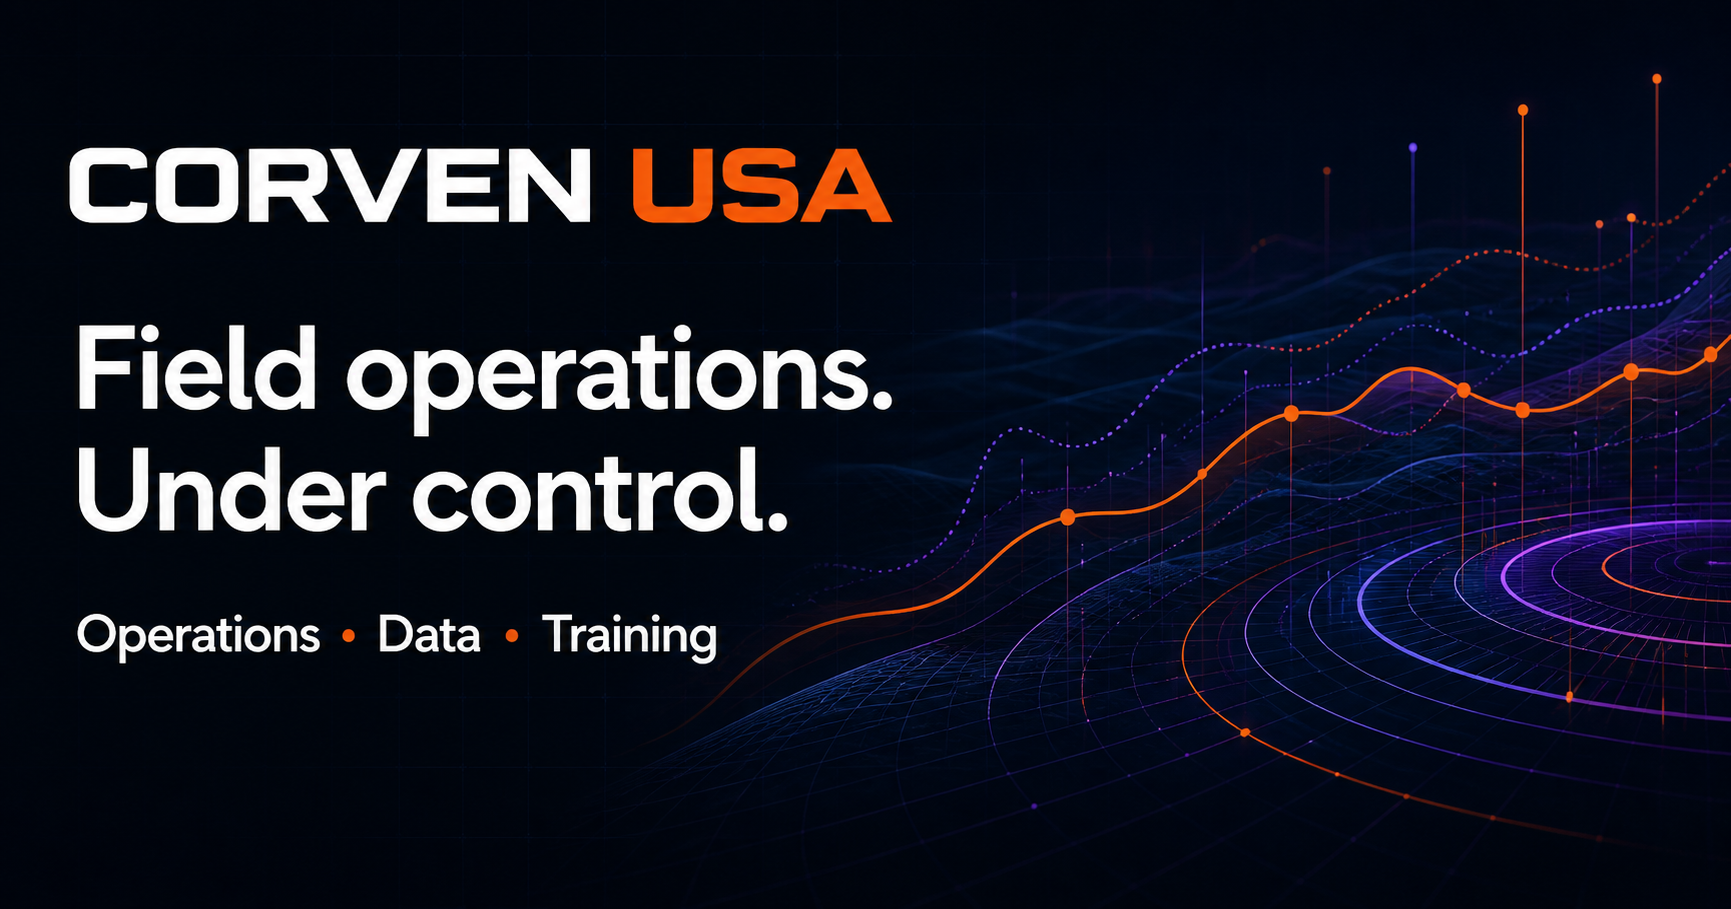
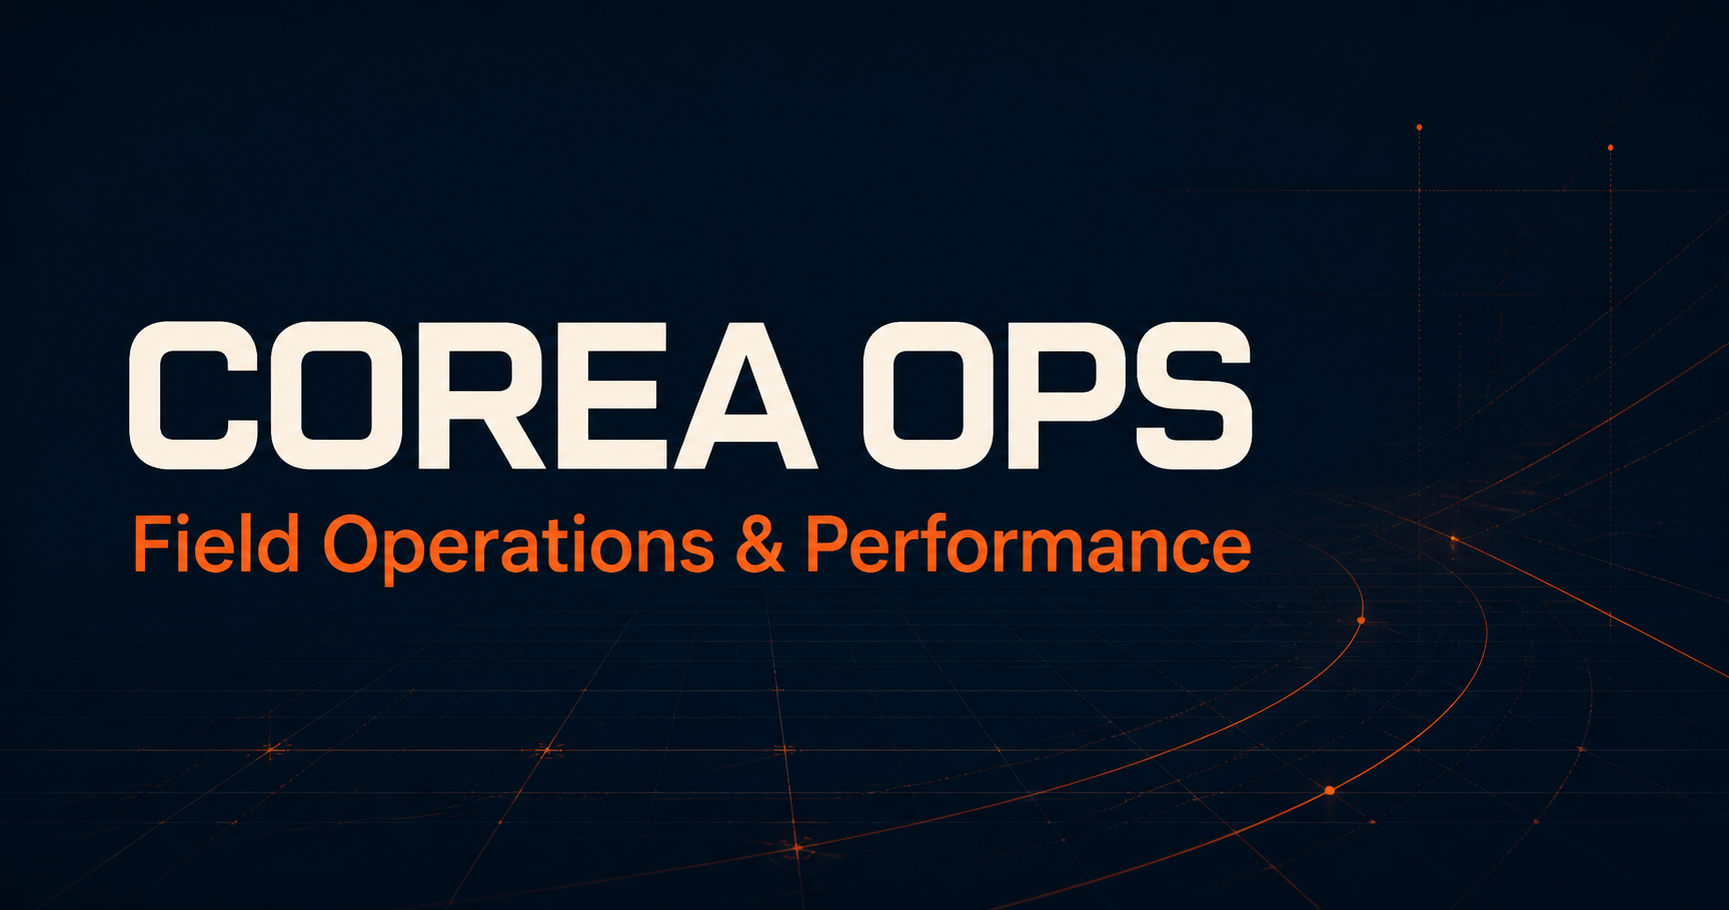
Rebrand site as Corea Ops Group

diff --git a/app/page.tsx b/app/page.tsx
@@ -12,32 +12,32 @@ const packages = [
   { name:'Ongoing Ops Support', price:'$3,200', note:'starting monthly', time:'Flexible', featured:false, items:['Weekly operating review','KPI and exception tracking','Process improvement support','Supervisor coaching'] },
 ];
 
-const schema = { '@context':'https://schema.org', '@type':'ProfessionalService', name:'CORVEN USA', description:'Operations management, data and instructional design for telecom, fiber and technical field service teams.', areaServed:['Indiana','United States'], telephone:'+1-502-649-4699', email:'coreamenamarcos@gmail.com', address:{'@type':'PostalAddress',addressRegion:'IN',addressCountry:'US'}, serviceType:['Field Operations Management','Data Reporting','Instructional Design'] };
+const schema = { '@context':'https://schema.org', '@type':'ProfessionalService', name:'Corea Operations Group LLC', alternateName:'COREA OPS', description:'Field operations and performance consulting for telecom, fiber and technical field service teams.', areaServed:['Indiana','United States'], telephone:'+1-502-649-4699', email:'coreamenamarcos@gmail.com', address:{'@type':'PostalAddress',addressRegion:'IN',addressCountry:'US'}, serviceType:['Field Operations Management','Performance Improvement','Data Reporting','Instructional Design'] };
 
 export default function Home() {
   return <main>
     <script type="application/ld+json" dangerouslySetInnerHTML={{__html:JSON.stringify(schema)}} />
-    <header className="site-header"><a className="brand" href="#top" aria-label="CORVEN USA home">CORVEN<span>USA</span><i /></a><nav aria-label="Primary navigation"><a href="#solutions">Solutions</a><a href="#packages">Packages</a><a href="#process">How it works</a><a href="#contact">Contact</a></nav><a className="header-cta" href="tel:+15026494699"><Phone size={16}/><span>(502) 649-4699</span></a></header>
+    <header className="site-header"><a className="brand" href="#top" aria-label="Corea Ops home">COREA<span>OPS</span><i /></a><nav aria-label="Primary navigation"><a href="#solutions">Solutions</a><a href="#packages">Packages</a><a href="#process">How it works</a><a href="#contact">Contact</a></nav><a className="header-cta" href="tel:+15026494699"><Phone size={16}/><span>(502) 649-4699</span></a></header>
 
     <section id="top" className="hero"><div className="hero-grid" aria-hidden="true"/><div className="hero-glow" aria-hidden="true"/>
-      <div className="hero-content"><p className="eyebrow"><MapPin size={15}/> Indiana-based · Serving U.S. field operations</p><h1>Turn field activity into <em>operational control.</em></h1><p className="hero-copy">CORVEN helps telecom, fiber and technical service teams organize field execution, see the right data and train people to deliver consistently.</p><div className="hero-actions"><a className="button button-primary" href="#contact">Book a 20-minute call <ArrowRight size={18}/></a><a className="button button-secondary" href="#solutions">Explore solutions</a></div><ul className="trust-line" aria-label="CORVEN approach"><li>Built for the field</li><li>Clear deliverables</li><li>Practical execution</li></ul></div>
+      <div className="hero-content"><p className="eyebrow"><MapPin size={15}/> Indiana-based · Serving U.S. field operations</p><h1>Turn field activity into <em>operational control.</em></h1><p className="hero-copy">Corea Ops helps telecom, fiber and technical service teams organize field execution, see the right data and train people to deliver consistently.</p><div className="hero-actions"><a className="button button-primary" href="#contact">Book a 20-minute call <ArrowRight size={18}/></a><a className="button button-secondary" href="#solutions">Explore solutions</a></div><ul className="trust-line" aria-label="Corea Ops approach"><li>Built for the field</li><li>Clear deliverables</li><li>Practical execution</li></ul></div>
       <aside className="ops-panel" aria-label="Field operations control preview"><div className="panel-top"><span>FIELD CONTROL</span><b>LIVE VIEW</b></div><div className="metric"><small>Today&apos;s focus</small><strong>Keep every site moving.</strong></div><div className="status-row"><span><i className="green"/> Site readiness</span><b>On track</b></div><div className="status-row"><span><i className="orange"/> Crew handoffs</span><b>2 actions</b></div><div className="status-row"><span><i className="blue"/> Closeout quality</span><b>Visible</b></div><div className="panel-note">One operating rhythm. Fewer blind spots.</div></aside>
     </section>
 
-    <section className="problem-band"><div><span>THE FIELD DOESN&apos;T WAIT</span><h2>Growth exposes every gap in the operation.</h2></div><p>Missing handoffs, scattered updates, unclear ownership and inconsistent training cost time long before they appear on a report. CORVEN connects the people, process and information behind the work.</p></section>
+    <section className="problem-band"><div><span>THE FIELD DOESN&apos;T WAIT</span><h2>Growth exposes every gap in the operation.</h2></div><p>Missing handoffs, scattered updates, unclear ownership and inconsistent training cost time long before they appear on a report. Corea Ops connects the people, process and information behind the work.</p></section>
 
     <section id="solutions" className="solutions-section section-pad"><div className="section-heading"><p className="kicker">Connected capabilities</p><h2>One operating system for better field execution.</h2><p>Start with the pressure point you feel today. We design each engagement to work with your current team and tools.</p></div><div className="solution-grid">{capabilities.map(({icon:Icon,label,copy,bullets},index)=><article key={label}><div className="solution-top"><span>0{index+1}</span><Icon/></div><h3>{label}</h3><p>{copy}</p><ul>{bullets.map(item=><li key={item}><Check size={14}/>{item}</li>)}</ul></article>)}</div></section>
 
-    <section className="field-focus"><div className="field-visual"><div className="signal signal-a"><RadioTower/><span>FIELD</span></div><div className="signal signal-b"><Users/><span>CREWS</span></div><div className="signal signal-c"><FileCheck2/><span>CLOSEOUT</span></div><div className="signal-center"><b>OIM</b><small>OPERATIONS<br/>INFORMATION<br/>MANAGEMENT</small></div></div><div className="field-copy"><p className="kicker light">Priority vertical</p><h2>Built around the realities of fiber, telecom and technical field services.</h2><p>We understand that the best process is the one supervisors and technicians can actually run between dispatch, site access, installation, quality checks and closeout.</p><div className="focus-list"><span><ShieldCheck/>Site readiness</span><span><Route/>Crew coordination</span><span><FileCheck2/>Closeout discipline</span><span><BarChart3/>Operational visibility</span></div></div></section>
+    <section className="field-focus"><div className="field-visual"><div className="signal signal-a"><RadioTower/><span>FIELD</span></div><div className="signal signal-b"><Users/><span>CREWS</span></div><div className="signal signal-c"><FileCheck2/><span>CLOSEOUT</span></div><div className="signal-center"><b>OPS</b><small>FIELD<br/>OPERATIONS<br/>PERFORMANCE</small></div></div><div className="field-copy"><p className="kicker light">Priority vertical</p><h2>Built around the realities of fiber, telecom and technical field services.</h2><p>We understand that the best process is the one supervisors and technicians can actually run between dispatch, site access, installation, quality checks and closeout.</p><div className="focus-list"><span><ShieldCheck/>Site readiness</span><span><Route/>Crew coordination</span><span><FileCheck2/>Closeout discipline</span><span><BarChart3/>Operational visibility</span></div></div></section>
 
     <section id="packages" className="packages section-pad"><div className="section-heading compact"><p className="kicker">Simple starting points</p><h2>Clear scope. Useful output. No vague consulting.</h2><p>Prices are starting points in U.S. dollars. Final scope and travel, if needed, are confirmed before work begins.</p></div><div className="package-grid">{packages.map(pkg=><article className={pkg.featured?'featured':''} key={pkg.name}>{pkg.featured&&<div className="popular">MOST PRACTICAL START</div>}<p className="package-time">{pkg.time}</p><h3>{pkg.name}</h3><div className="price"><small>{pkg.note}</small><strong>{pkg.price}</strong></div><ul>{pkg.items.map(item=><li key={item}><Check size={15}/>{item}</li>)}</ul><a href="#contact">Discuss this package <ChevronRight size={16}/></a></article>)}</div><div className="addons"><b>Also available as focused projects:</b><span>Data dashboard setup from $2,400</span><span>Training or SOP build from $2,900</span></div></section>
 
     <section id="process" className="process section-pad"><div className="section-heading compact"><p className="kicker">How we work</p><h2>From field reality to a system your team can run.</h2></div><ol><li><b>01</b><div><h3>Listen in context</h3><p>We learn the work, the constraints and what leadership needs to see.</p></div></li><li><b>02</b><div><h3>Make the gaps visible</h3><p>We map handoffs, ownership, information and recurring exceptions.</p></div></li><li><b>03</b><div><h3>Build the practical system</h3><p>We create the cadence, tools, scorecards and learning support.</p></div></li><li><b>04</b><div><h3>Enable the team</h3><p>We help supervisors and staff adopt, use and improve the new rhythm.</p></div></li></ol></section>
 
-    <section className="contact-person"><div><p className="kicker light">Your U.S. field contact</p><h2>Field experience at the first conversation.</h2><p>Marcos Corea supports CORVEN&apos;s commercial and operational development in the United States. His background spans technician work, field supervision and site logistics management—so the conversation starts with how work actually happens.</p><div className="role-tags"><span>Technician</span><span>Field supervisor</span><span>Site logistics</span></div></div><aside><span>CONTACT</span><h3>Marcos Corea</h3><p>U.S. Field Operations Contact</p><a href="tel:+15026494699"><Phone/>+1 (502) 649-4699</a><a href="mailto:coreamenamarcos@gmail.com?subject=CORVEN%20USA%20-%20Field%20Operations%20Conversation"><Mail/>coreamenamarcos@gmail.com</a></aside></section>
+    <section className="contact-person"><div><p className="kicker light">Your U.S. field contact</p><h2>Field experience at the first conversation.</h2><p>Marcos Corea leads Corea Ops Group&apos;s commercial and operational development in the United States. His background spans technician work, field supervision and site logistics management—so the conversation starts with how work actually happens.</p><div className="role-tags"><span>Technician</span><span>Field supervisor</span><span>Site logistics</span></div></div><aside><span>CONTACT</span><h3>Marcos Corea</h3><p>U.S. Field Operations Contact</p><a href="tel:+15026494699"><Phone/>+1 (502) 649-4699</a><a href="mailto:coreamenamarcos@gmail.com?subject=COREA%20OPS%20-%20Field%20Operations%20Conversation"><Mail/>coreamenamarcos@gmail.com</a></aside></section>
 
-    <section id="contact" className="contact-section"><div><p className="kicker light">Start with the operation</p><h2>What is slowing the field down?</h2><p>Bring one operational challenge to a focused 20-minute call. We&apos;ll determine whether CORVEN can help and identify the most useful next step.</p></div><div className="contact-actions"><a className="button button-primary" href="tel:+15026494699"><Phone size={18}/> Call (502) 649-4699</a><a className="button button-white" href="mailto:coreamenamarcos@gmail.com?subject=CORVEN%20USA%20-%20Field%20Operations%20Conversation"><Mail size={18}/> Email CORVEN USA</a><small>Monday–Friday · Eastern Time · Remote and on-site engagements</small></div></section>
+    <section id="contact" className="contact-section"><div><p className="kicker light">Start with the operation</p><h2>What is slowing the field down?</h2><p>Bring one operational challenge to a focused 20-minute call. We&apos;ll determine whether Corea Ops can help and identify the most useful next step.</p></div><div className="contact-actions"><a className="button button-primary" href="tel:+15026494699"><Phone size={18}/> Call (502) 649-4699</a><a className="button button-white" href="mailto:coreamenamarcos@gmail.com?subject=COREA%20OPS%20-%20Field%20Operations%20Conversation"><Mail size={18}/> Email Corea Ops</a><small>Monday–Friday · Eastern Time · Remote and on-site engagements</small></div></section>
 
-    <footer><a className="brand" href="#top">CORVEN<span>USA</span><i/></a><p>Operations management, data and instructional design for U.S. field service teams.</p><div><span>Indiana, USA</span><a href="tel:+15026494699">+1 (502) 649-4699</a><a href="mailto:coreamenamarcos@gmail.com">coreamenamarcos@gmail.com</a></div><small>© 2026 CORVEN. U.S. services and pricing are separate from CORVEN Costa Rica. Pricing shown is in USD and subject to confirmed scope.</small></footer>
+    <footer><a className="brand" href="#top">COREA<span>OPS</span><i/></a><p>Field operations and performance consulting for U.S. service teams.</p><div><span>Indiana, USA</span><a href="tel:+15026494699">+1 (502) 649-4699</a><a href="mailto:coreamenamarcos@gmail.com">coreamenamarcos@gmail.com</a></div><small>© 2026 Corea Operations Group LLC. Pricing shown is in USD and subject to confirmed scope.</small></footer>
   </main>;
 }

diff --git a/app/layout.tsx b/app/layout.tsx
@@ -1,12 +1,12 @@
 import type { Metadata } from 'next';
 import './globals.css';
-const siteUrl = process.env.NEXT_PUBLIC_SITE_URL || 'https://corven-usa.vercel.app';
+const siteUrl = process.env.NEXT_PUBLIC_SITE_URL || 'https://corvenusa.vercel.app';
 export const metadata: Metadata = {
   metadataBase: new URL(siteUrl),
-  title:'CORVEN USA | Field Operations Management',
-  description:'Operations management, data visibility and instructional design for telecom, fiber and technical field service teams in Indiana and across the U.S.',
+  title:'COREA OPS | Field Operations & Performance',
+  description:'Field operations, performance improvement, data visibility and instructional design for telecom, fiber and technical service teams across the U.S.',
   alternates:{ canonical:'/' },
-  openGraph:{ title:'CORVEN USA | Field Operations. Under control.', description:'Operations, data and training for telecom, fiber and technical field service teams.', url:siteUrl, siteName:'CORVEN USA', locale:'en_US', type:'website', images:[{url:`${siteUrl}/og.png`,width:1200,height:630,alt:'CORVEN USA — Field operations. Under control.'}] },
-  twitter:{ card:'summary_large_image', title:'CORVEN USA | Field Operations. Under control.', description:'Operations, data and training for telecom, fiber and technical field service teams.', images:[`${siteUrl}/og.png`] },
+  openGraph:{ title:'COREA OPS | Field Operations & Performance', description:'Practical operations, data and training systems for telecom, fiber and technical field service teams.', url:siteUrl, siteName:'COREA OPS', locale:'en_US', type:'website', images:[{url:`${siteUrl}/og.png`,width:1200,height:630,alt:'COREA OPS — Field Operations & Performance'}] },
+  twitter:{ card:'summary_large_image', title:'COREA OPS | Field Operations & Performance', description:'Practical operations, data and training systems for telecom, fiber and technical field service teams.', images:[`${siteUrl}/og.png`] },
 };
 export default function RootLayout({children}:Readonly<{children:React.ReactNode}>){return <html lang="en"><body>{children}</body></html>}

diff --git a/README.md b/README.md
@@ -1,6 +1,6 @@
-# CORVEN USA
+# Corea Ops Group
 
-Official CORVEN USA website focused on field operations management, data visibility, and instructional design for telecom, fiber, and technical service teams.
+Official website for Corea Operations Group LLC, focused on field operations, performance improvement, data visibility, and instructional design for telecom, fiber, and technical service teams.
 
 ## Local development
 
@@ -22,7 +22,7 @@ pnpm start
 
 Import this repository in Vercel. The framework is detected automatically as Next.js.
 
-Set `NEXT_PUBLIC_SITE_URL` to the production domain, for example `https://www.corvenusa.com`, so canonical and social metadata use the final public URL.
+Set `NEXT_PUBLIC_SITE_URL` to the production domain, for example `https://www.coreaops.com`, so canonical and social metadata use the final public URL.
 
 ## Contact shown on the site
 
